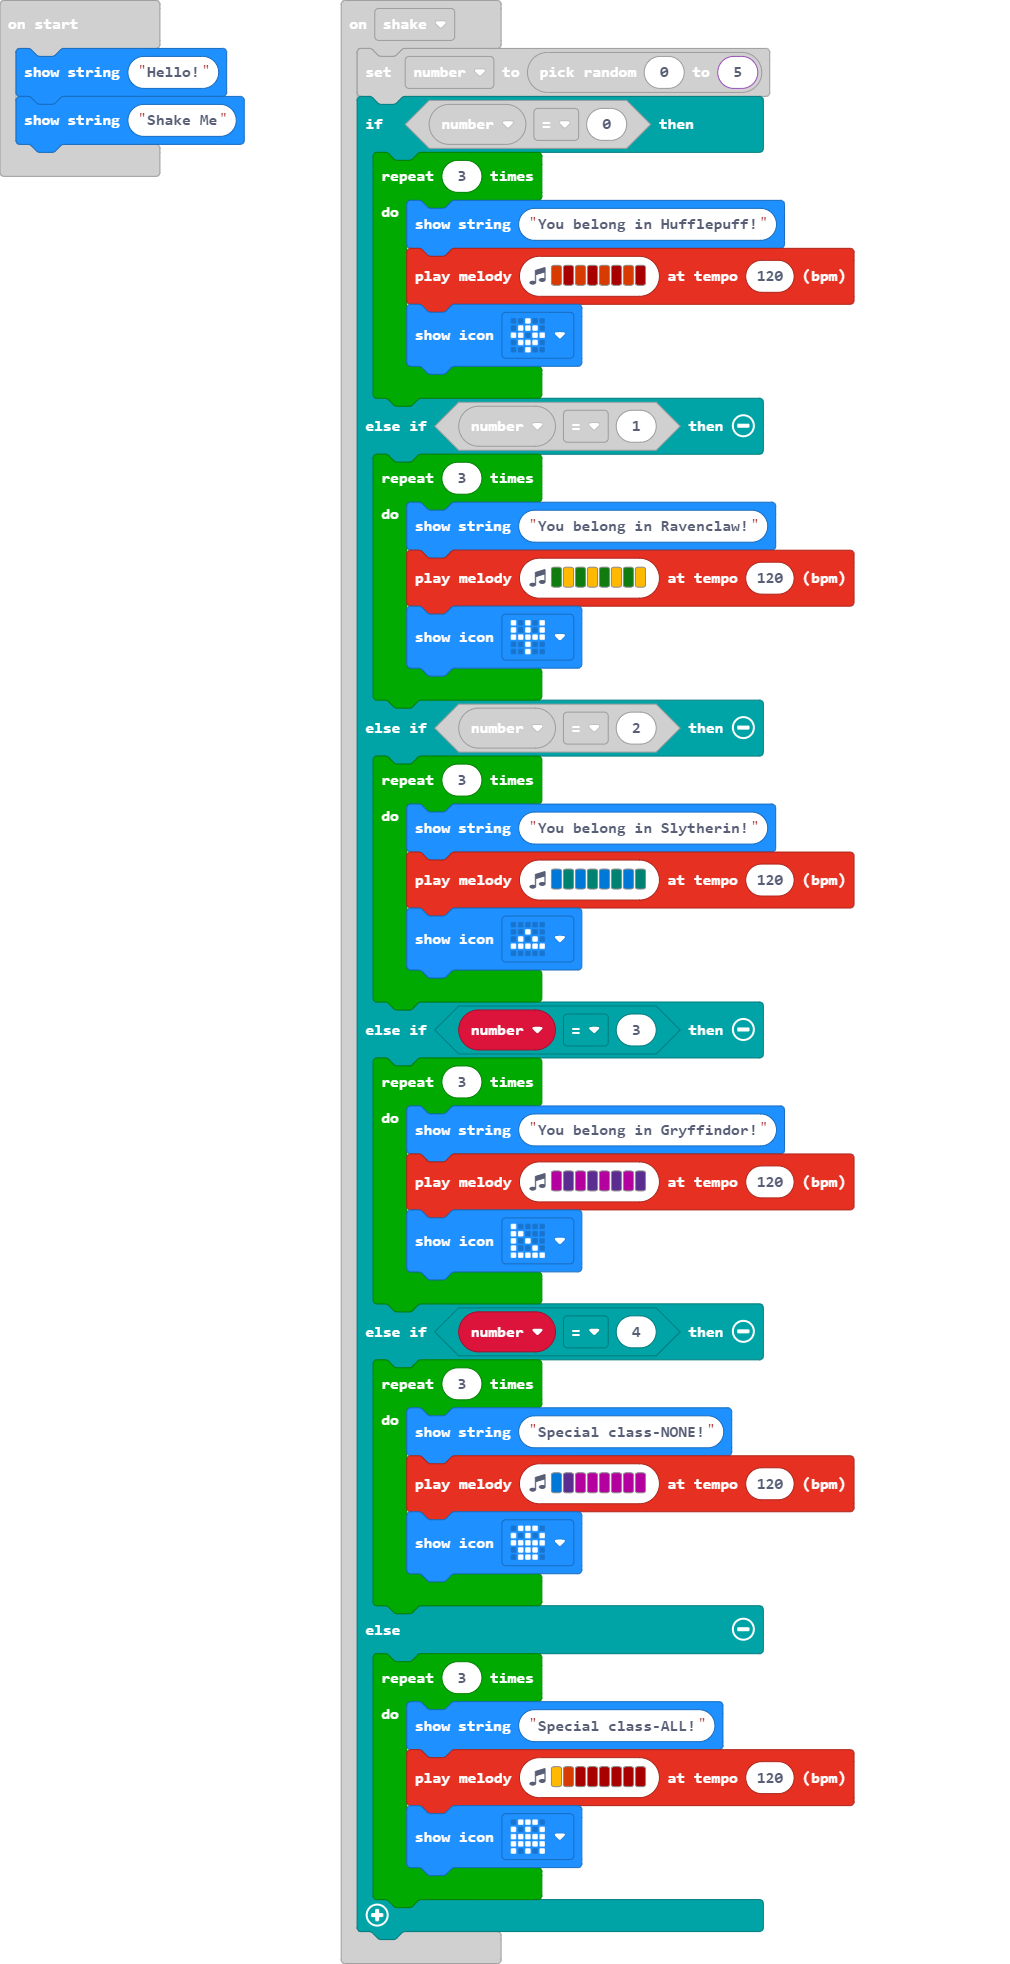
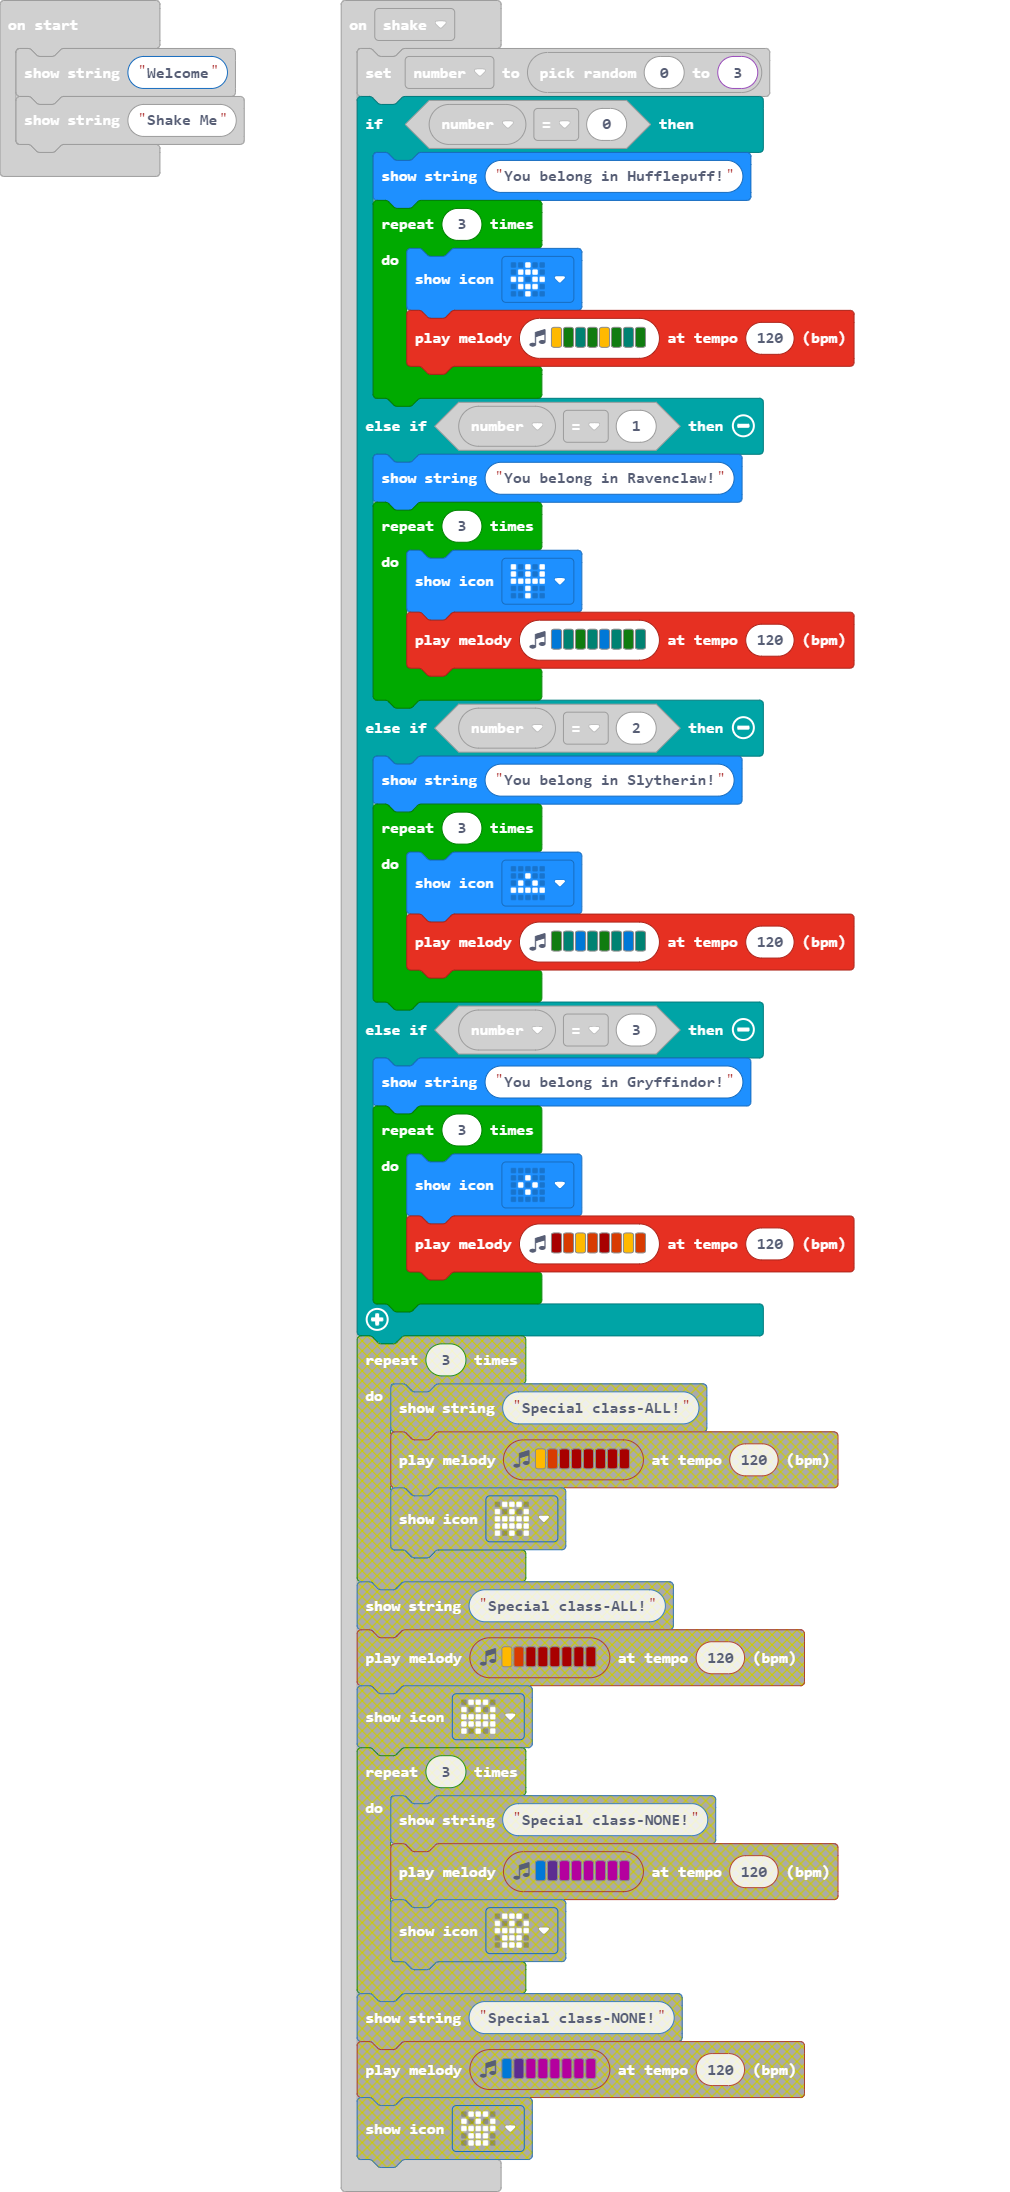
Update main.blocks, main.ts

diff --git a/main.ts b/main.ts
@@ -5,47 +5,35 @@ input.onButtonPressed(Button.B, function () {
     basic.showString("Shake Me")
 })
 input.onGesture(Gesture.Shake, function () {
-    number = randint(0, 5)
+    number = randint(0, 3)
     if (number == 0) {
+        basic.showString("You belong in Hufflepuff!")
         for (let index = 0; index < 3; index++) {
-            basic.showString("You belong in Hufflepuff!")
-            music.playMelody("B C5 B C5 B C5 B C5 ", 120)
             basic.showIcon(IconNames.Target)
+            music.playMelody("A G F G A G F G ", 120)
         }
     } else if (number == 1) {
+        basic.showString("You belong in Ravenclaw!")
         for (let index = 0; index < 3; index++) {
-            basic.showString("You belong in Ravenclaw!")
-            music.playMelody("G A G A G A G A ", 120)
             basic.showIcon(IconNames.Pitchfork)
+            music.playMelody("E F G F E F G F ", 120)
         }
     } else if (number == 2) {
+        basic.showString("You belong in Slytherin!")
         for (let index = 0; index < 3; index++) {
-            basic.showString("You belong in Slytherin!")
-            music.playMelody("E F E F E F E F ", 120)
             basic.showIcon(IconNames.Triangle)
+            music.playMelody("G F E F G F E F ", 120)
         }
     } else if (number == 3) {
+        basic.showString("You belong in Gryffindor!")
         for (let index = 0; index < 3; index++) {
-            basic.showString("You belong in Gryffindor!")
-            music.playMelody("C D C D C D C D ", 120)
-            basic.showIcon(IconNames.LeftTriangle)
-        }
-    } else if (number == 4) {
-        for (let index = 0; index < 3; index++) {
-            basic.showString("Special class-NONE!")
-            music.playMelody("E D C C C C C C ", 120)
-            basic.showIcon(IconNames.Skull)
-        }
-    } else {
-        for (let index = 0; index < 3; index++) {
-            basic.showString("Special class-ALL!")
-            music.playMelody("A B C5 C5 C5 C5 C5 C5 ", 120)
-            basic.showIcon(IconNames.Ghost)
+            basic.showIcon(IconNames.SmallDiamond)
+            music.playMelody("C5 B A B C5 B A B ", 120)
         }
     }
 })
 let number = 0
-basic.showString("Hello!")
+basic.showString("Welcome")
 basic.showString("Shake Me")
 basic.forever(function () {
 	
